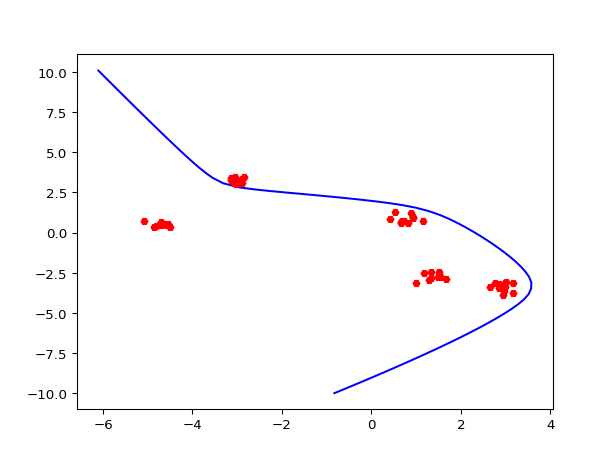
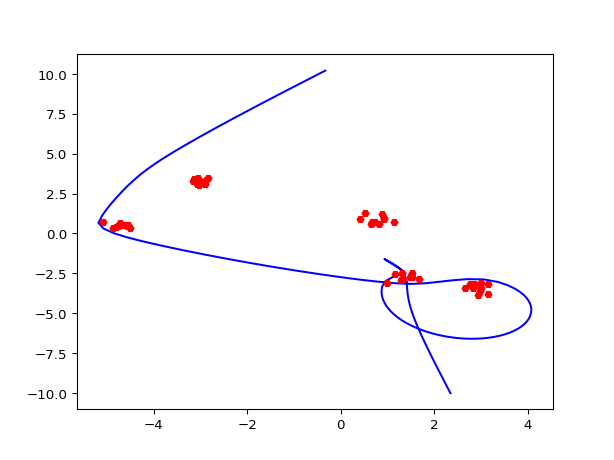
changed some of the initial condition parameters

diff --git a/McMillan_Erich_pa4.py b/McMillan_Erich_pa4.py
@@ -221,7 +221,7 @@ def simulateKesselRun( blackholes, runParameters ):
 
 ## 	Main code				##
 runParameters = runParameters(minX = -5, maxX = 5, startY = -10, finalY = 10, avgVelAngle = math.pi/2.0,
-	stdVelAngle = math.pi/4.0, minVel = 2, maxVel = 5, maxForce = 4, resolution = .1, maxTime = 10, shipMass = .1)
+	stdVelAngle = math.pi/4.0, minVel = 2, maxVel = 5, maxForce = 4, resolution = .1, maxTime = 30, shipMass = .1)
 
 print("Loading Blackholes")
 blackholes = loadBlackHoles("cluster1.mat")
